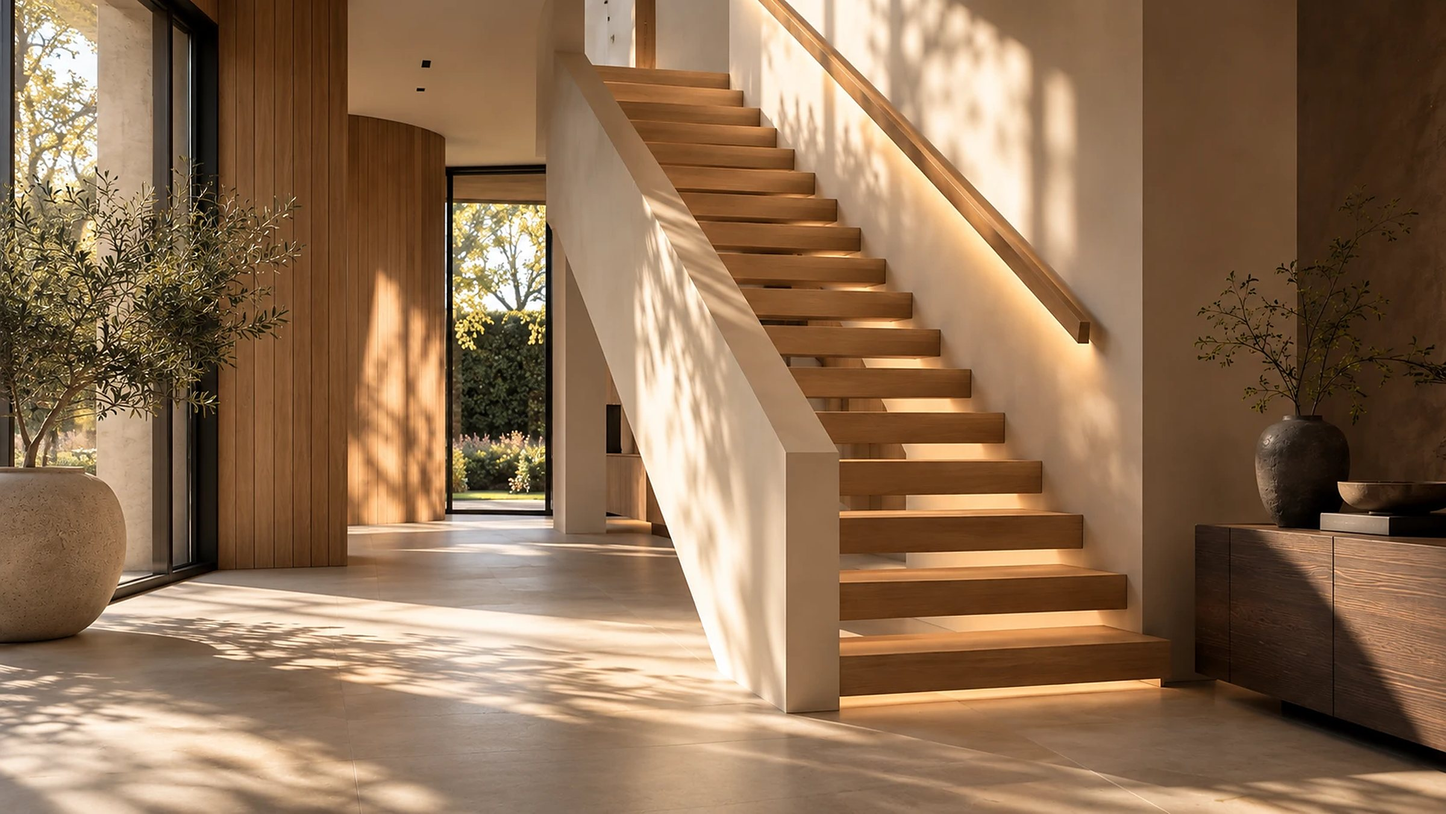
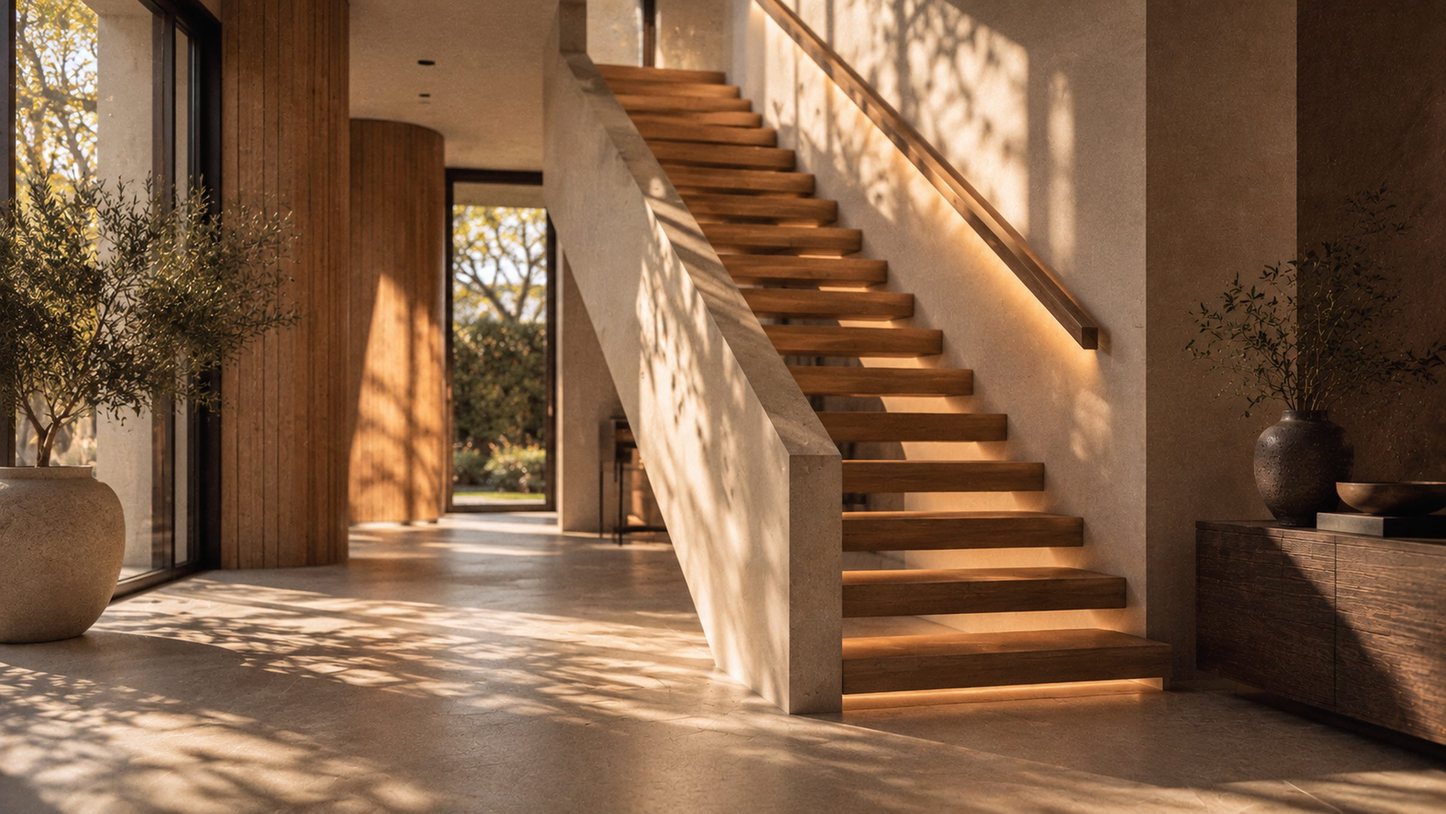
Hero: 4K-versie van 'Foto zon' als standaard (met 3200w), sterkere laag achter de tekst

diff --git a/index.html b/index.html
@@ -13,7 +13,7 @@
 <link rel="stylesheet" href="styles.css">
 <script>
 	// thema vóór de eerste render zetten, zodat er niets flitst
-	try { var t = localStorage.getItem('decotrap-thema'); if (t === 'zw' || t === 'lime') document.documentElement.dataset.theme = t; var f = localStorage.getItem('decotrap-hero3'); document.documentElement.dataset.hero = (f === 'raam' || f === 'latten' || f === 'reeks' || f === 'zon' || f === 'hal') ? f : 'hal'; } catch (e) {}
+	try { var t = localStorage.getItem('decotrap-thema'); if (t === 'zw' || t === 'lime') document.documentElement.dataset.theme = t; var f = localStorage.getItem('decotrap-hero4'); document.documentElement.dataset.hero = (f === 'raam' || f === 'latten' || f === 'reeks' || f === 'zon' || f === 'hal') ? f : 'zon'; } catch (e) {}
 	document.documentElement.classList.add('js');
 </script>
 </head>
@@ -91,11 +91,11 @@
 	<img class="hero__img hero__img--latten" src="img/hero.jpg" alt="Houten trap achter latten met geïntegreerde ledleuning" loading="lazy">
 	<picture class="hero__pic--hal">
 		<source type="image/webp" srcset="img/hero-hal-1200.webp 1200w, img/hero-hal-2400.webp 2400w" sizes="100vw">
-		<img class="hero__img hero__img--hal" src="img/hero-hal-2400.jpg" srcset="img/hero-hal-1200.jpg 1200w, img/hero-hal-2400.jpg 2400w" sizes="100vw" width="2400" height="1340" alt="Notelaren trap met glazen balustrade en ledverlichting in een hoge, warm verlichte hal met zicht op de tuin" fetchpriority="high">
+		<img class="hero__img hero__img--hal" src="img/hero-hal-2400.jpg" srcset="img/hero-hal-1200.jpg 1200w, img/hero-hal-2400.jpg 2400w" sizes="100vw" width="2400" height="1340" alt="Notelaren trap met glazen balustrade en ledverlichting in een hoge, warm verlichte hal met zicht op de tuin" loading="lazy">
 	</picture>
 	<picture class="hero__pic--zon">
-		<source type="image/webp" srcset="img/hero-zon-1200.webp 1200w, img/hero-zon-2400.webp 2400w" sizes="100vw">
-		<img class="hero__img hero__img--zon" src="img/hero-zon-2400.jpg" srcset="img/hero-zon-1200.jpg 1200w, img/hero-zon-2400.jpg 2400w" sizes="100vw" width="2400" height="1351" alt="Zwevende eiken trap met ledverlichting in een lichte inkomhal met laag zonlicht" loading="lazy">
+		<source type="image/webp" srcset="img/hero-zon-1200.webp 1200w, img/hero-zon-2400.webp 2400w, img/hero-zon-3200.webp 3200w" sizes="100vw">
+		<img class="hero__img hero__img--zon" src="img/hero-zon-2400.jpg" srcset="img/hero-zon-1200.jpg 1200w, img/hero-zon-2400.jpg 2400w, img/hero-zon-3200.jpg 3200w" sizes="100vw" width="2400" height="1351" alt="Zwevende eiken trap met ledverlichting in een lichte inkomhal met laag zonlicht" fetchpriority="high">
 	</picture>
 	<picture class="hero__pic--raam">
 		<source type="image/webp" srcset="img/hero-raam-960.webp 960w, img/hero-raam-1920.webp 1920w" sizes="100vw">
@@ -391,8 +391,8 @@
 <div class="preview-bar">
 <button class="preview-bar__toggle" type="button" aria-expanded="false">Preview-opties</button>
 <div class="theme-switch" role="group" aria-label="Herofoto (enkel in de preview)">
-	<button type="button" data-set-hero="hal" aria-pressed="true">Foto hal</button>
-	<button type="button" data-set-hero="zon" aria-pressed="false">Foto zon</button>
+	<button type="button" data-set-hero="zon" aria-pressed="true">Foto zon</button>
+	<button type="button" data-set-hero="hal" aria-pressed="false">Foto hal</button>
 	<button type="button" data-set-hero="latten" aria-pressed="false">Foto latten</button>
 	<button type="button" data-set-hero="raam" aria-pressed="false">Foto raam</button>
 	<button type="button" data-set-hero="reeks" aria-pressed="false">Fotoreeks</button>

diff --git a/styles.css b/styles.css
@@ -644,12 +644,12 @@ h1, h2, h3, p, blockquote, figure { margin: 0; }
 [data-hero="zon"] .hero__img--zon { object-position: 60% 60%; }
 [data-hero="zon"] .hero::before {
 	background:
-		radial-gradient(110% 80% at 0% 100%, rgb(var(--shade) / 0.5) 0%, rgb(var(--shade) / 0.22) 45%, rgb(var(--shade) / 0) 72%),
-		linear-gradient(180deg, rgb(var(--shade) / 0.42) 0%, rgb(var(--shade) / 0) 20%, rgb(var(--shade) / 0) 55%, rgb(var(--shade) / 0.4) 100%);
+		linear-gradient(90deg, rgb(var(--shade) / 0.66) 0%, rgb(var(--shade) / 0.5) 30%, rgb(var(--shade) / 0.15) 55%, rgb(var(--shade) / 0) 72%),
+		linear-gradient(180deg, rgb(var(--shade) / 0.5) 0%, rgb(var(--shade) / 0.08) 22%, rgb(var(--shade) / 0.05) 42%, rgb(var(--shade) / 0.55) 100%);
 }
 @media (max-width: 960px) {
 	[data-hero="zon"] .hero__img--zon { object-position: 58% 50%; }
-	[data-hero="zon"] .hero::before { background: linear-gradient(180deg, rgb(var(--shade) / 0.45) 0%, rgb(var(--shade) / 0.1) 22%, rgb(var(--shade) / 0.42) 48%, rgb(var(--shade) / 0.8) 100%); }
+	[data-hero="zon"] .hero::before { background: linear-gradient(180deg, rgb(var(--shade) / 0.5) 0%, rgb(var(--shade) / 0.15) 22%, rgb(var(--shade) / 0.58) 42%, rgb(var(--shade) / 0.86) 100%); }
 }
 
 /* ---------- 12b2. Herofoto 'reeks' (diavoorstelling) ---------- */

diff --git a/main.js b/main.js
@@ -26,10 +26,10 @@
 	function setHero(hero) {
 		root.dataset.hero = hero;
 		heroButtons.forEach(function (b) { b.setAttribute('aria-pressed', String(b.dataset.setHero === hero)); });
-		try { localStorage.setItem('decotrap-hero3', hero); } catch (e) {}
+		try { localStorage.setItem('decotrap-hero4', hero); } catch (e) {}
 	}
 	heroButtons.forEach(function (b) { b.addEventListener('click', function () { setHero(b.dataset.setHero); }); });
-	setHero(root.dataset.hero || 'hal');
+	setHero(root.dataset.hero || 'zon');
 
 
 	// Trap-o-theek-video: speelt enkel als hij in beeld is, pauzeerbaar, niet vanzelf bij beperkte beweging
